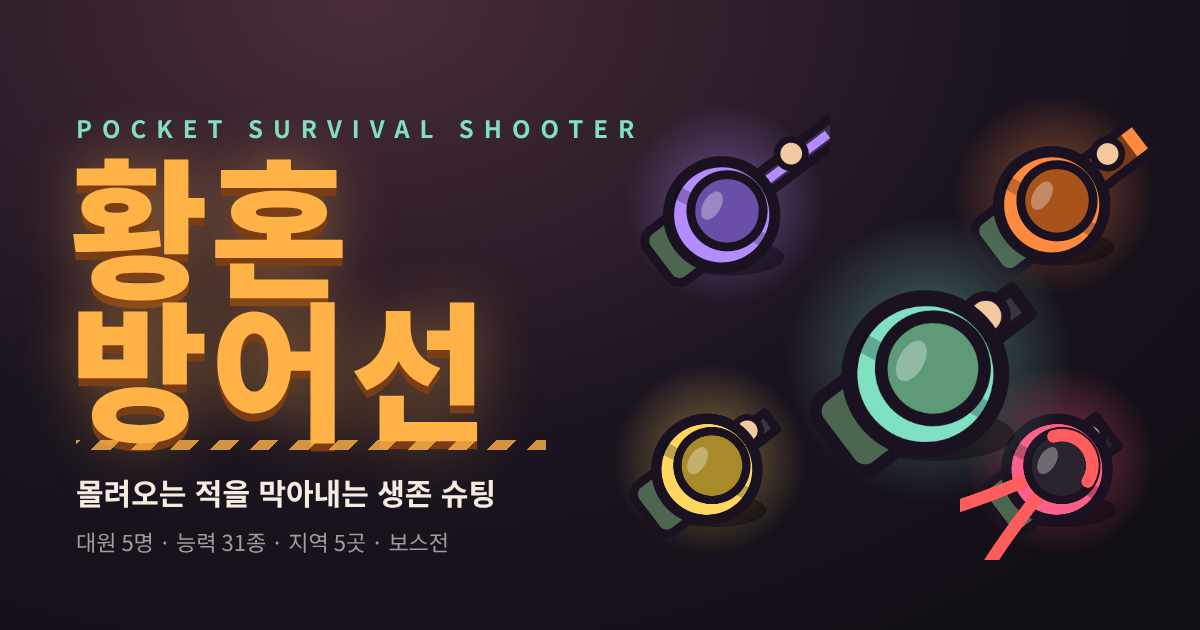
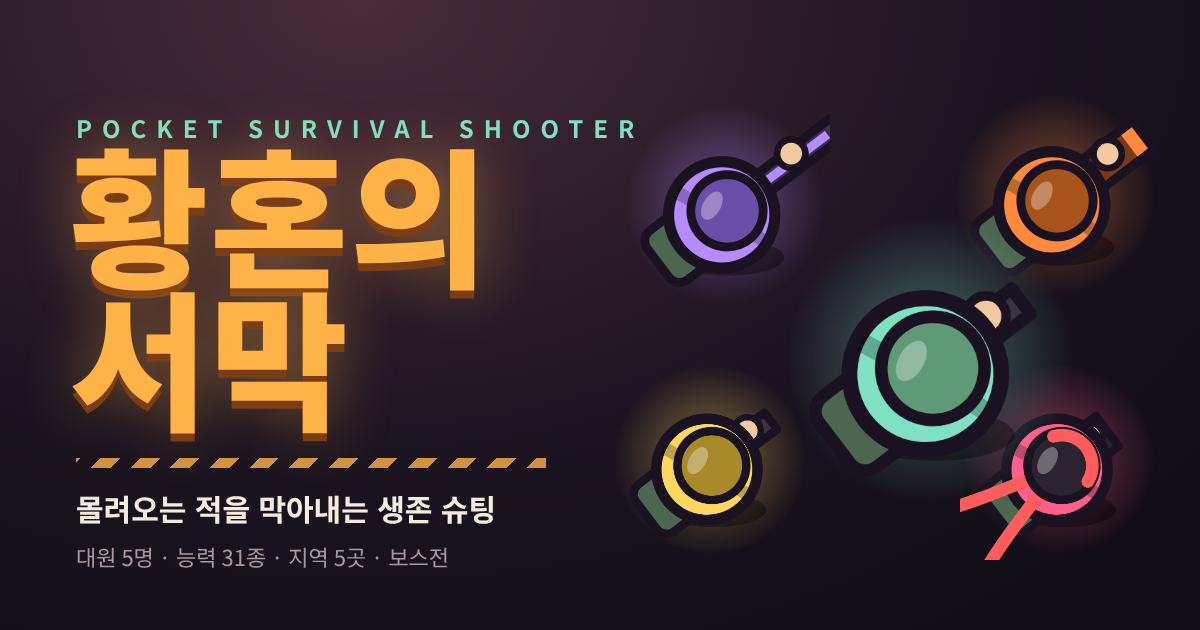
게임 이름 변경: 황혼 방어선 → 황혼의 서막 (v1.5)
Claude-Session: https://claude.ai/code/session_01Vs17czT1wf4WBYFvT5uAzz

Changed region(s): [[0.0617, 0.2111, 0.4625, 0.9048]]

diff --git a/index.html b/index.html
@@ -6,7 +6,7 @@
 <meta name="description" content="몰려오는 적을 막아내는 생존 슈팅 게임. 대원 5명, 능력 31종, 지역 5곳, 보스전. 폰과 PC 브라우저에서 바로 플레이.">
 <meta name="theme-color" content="#241d29">
 <meta property="og:type" content="website">
-<meta property="og:title" content="황혼 방어선">
+<meta property="og:title" content="황혼의 서막">
 <meta property="og:description" content="몰려오는 적을 막아내는 생존 슈팅 게임. 링크만 누르면 바로 플레이!">
 <meta property="og:image" content="og.png">
 <meta property="og:image:width" content="1200">
@@ -15,7 +15,7 @@
 <meta name="apple-mobile-web-app-capable" content="yes">
 <meta name="mobile-web-app-capable" content="yes">
 <meta name="apple-mobile-web-app-status-bar-style" content="black-translucent">
-<meta name="apple-mobile-web-app-title" content="황혼 방어선">
+<meta name="apple-mobile-web-app-title" content="황혼의 서막">
 <link rel="manifest" href="manifest.webmanifest">
 <link rel="icon" type="image/png" href="favicon.png">
 <link rel="apple-touch-icon" href="apple-touch-icon.png">
@@ -23,7 +23,7 @@
 <script>if ('serviceWorker' in navigator && location.protocol === 'https:') addEventListener('load', () => navigator.serviceWorker.register('sw.js').catch(() => {}));</script>
 </head>
 <body>
-<title>황혼 방어선</title>
+<title>황혼의 서막</title>
 <meta name="claude:viewport-fit-sides" content="cover">
 <link rel="preconnect" href="https://fonts.googleapis.com">
 <link rel="preconnect" href="https://fonts.gstatic.com" crossorigin>
@@ -269,7 +269,7 @@ button:focus-visible{outline:3px solid var(--ally);outline-offset:3px}
   <div class="overlay" id="menu">
     <div class="mtop"><button class="chip pchip" id="profileBtn" type="button"><svg class="ico" viewBox="0 0 24 24" aria-hidden="true"><circle cx="12" cy="8" r="4"/><path d="M4 21c0-4 4-6 8-6s8 2 8 6"/></svg><span id="profileName">플레이어 1</span></button><span class="chip gold"><i class="coin"></i><span id="goldTxt">0</span></span></div>
     <div class="menucol">
-      <div class="logo"><div class="eyebrow">POCKET SURVIVAL SHOOTER</div><h1>황혼<br>방어선</h1></div>
+      <div class="logo"><div class="eyebrow">POCKET SURVIVAL SHOOTER</div><h1>황혼의<br>서막</h1></div>
       <div class="hazard"></div>
       <button class="hero panel" id="charBtn" type="button">
         <canvas id="menuAvatar" width="152" height="152"></canvas>
@@ -288,7 +288,7 @@ button:focus-visible{outline:3px solid var(--ally);outline-offset:3px}
         <button class="dockbtn" id="howBtn" type="button"><svg class="ico" viewBox="0 0 24 24" aria-hidden="true"><rect x="2.5" y="7" width="19" height="11" rx="4"/><path d="M7.5 10.5v4M5.5 12.5h4"/><circle cx="16" cy="11.5" r="1"/><circle cx="18" cy="14" r="1"/></svg>조작법</button>
         <button class="dockbtn" id="menuRankBtn" type="button" hidden><svg class="ico" viewBox="0 0 24 24" aria-hidden="true"><path d="M8 4h8v5a4 4 0 01-8 0z"/><path d="M8 6H5a3 3 0 003 4M16 6h3a3 3 0 01-3 4M12 13v3M8.5 20h7M10 16h4v4h-4z"/></svg>랭킹</button>
       </nav>
-      <div class="ver" id="verTxt">v1.4 · 2026.11.07</div>
+      <div class="ver" id="verTxt">v1.5 · 2026.11.07</div>
     </div>
   </div>
 
@@ -370,7 +370,7 @@ button:focus-visible{outline:3px solid var(--ally);outline-offset:3px}
     <div class="btnrow"><button class="btn2" id="menuBtn" type="button">메뉴</button><button class="btn2" id="rankBtn" type="button" hidden>토스 랭킹</button></div>
   </div>
 </div>
-<div class="brand">DUSK · LINE<small>POCKET</small></div>
+<div class="brand">DUSK · PRELUDE<small>POCKET</small></div>
 </div>
 
 <div class="deck" id="deck">

diff --git a/README.md b/README.md
@@ -1,4 +1,4 @@
-# 황혼 방어선
+# 황혼의 서막
 
 몰려오는 적을 막아내는 생존 슈팅 게임. 폰과 PC 브라우저에서 바로 플레이.
 
